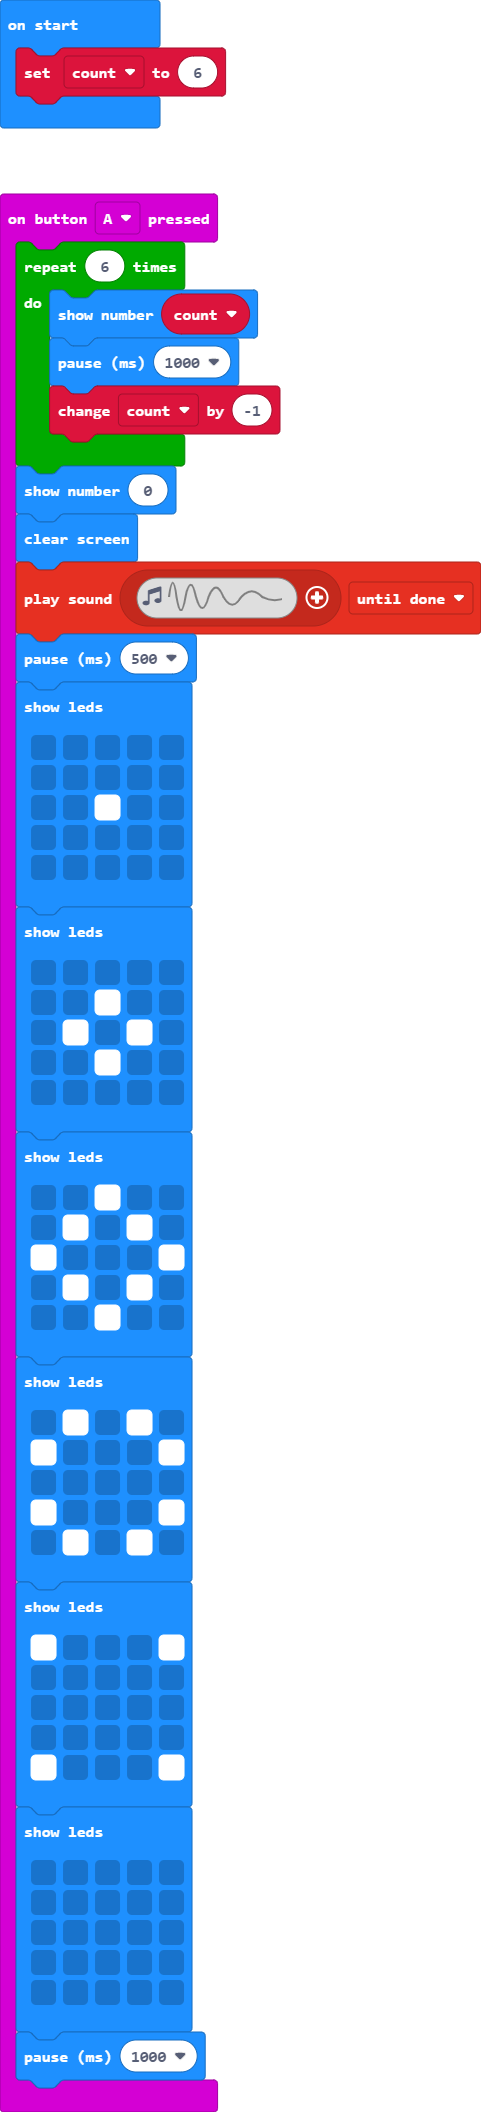
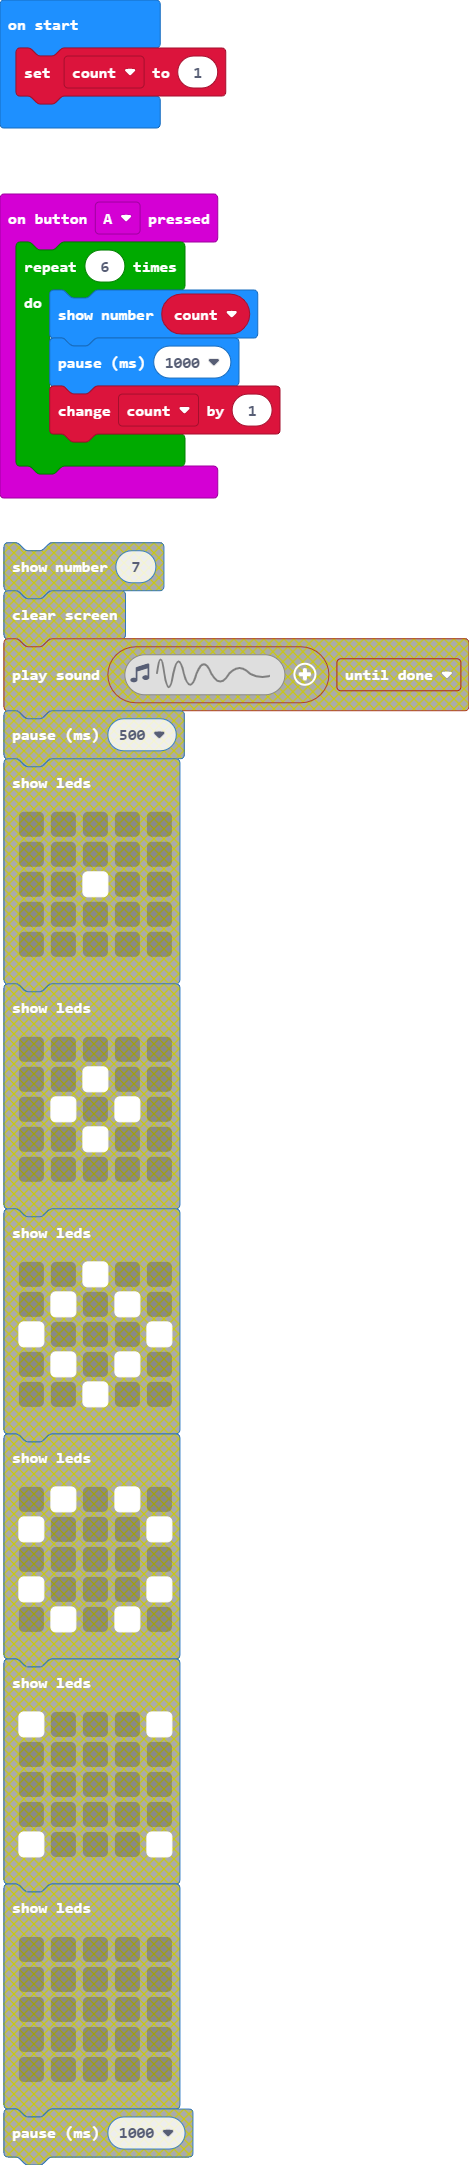
Update main.blocks, main.ts, main.py

diff --git a/main.ts b/main.ts
@@ -2,55 +2,8 @@ input.onButtonPressed(Button.A, function () {
     for (let index = 0; index < 6; index++) {
         basic.showNumber(count)
         basic.pause(1000)
-        count += -1
+        count += 1
     }
-    basic.showNumber(0)
-    basic.clearScreen()
-    music.playSoundEffect(music.createSoundEffect(WaveShape.Sine, 4500, 0, 255, 0, 3500, SoundExpressionEffect.None, InterpolationCurve.Linear), SoundExpressionPlayMode.UntilDone)
-    basic.pause(500)
-    basic.showLeds(`
-        . . . . .
-        . . . . .
-        . . # . .
-        . . . . .
-        . . . . .
-        `)
-    basic.showLeds(`
-        . . . . .
-        . . # . .
-        . # . # .
-        . . # . .
-        . . . . .
-        `)
-    basic.showLeds(`
-        . . # . .
-        . # . # .
-        # . . . #
-        . # . # .
-        . . # . .
-        `)
-    basic.showLeds(`
-        . # . # .
-        # . . . #
-        . . . . .
-        # . . . #
-        . # . # .
-        `)
-    basic.showLeds(`
-        # . . . #
-        . . . . .
-        . . . . .
-        . . . . .
-        # . . . #
-        `)
-    basic.showLeds(`
-        . . . . .
-        . . . . .
-        . . . . .
-        . . . . .
-        . . . . .
-        `)
-    basic.pause(1000)
 })
 let count = 0
-count = 6
+count = 1

diff --git a/main.py b/main.py
@@ -3,12 +3,63 @@ def on_button_pressed_a():
     for index in range(6):
         basic.show_number(count)
         basic.pause(1000)
-        count += 1
+        count += -1
+    basic.show_number(0)
+    basic.clear_screen()
+    music.play_sound_effect(music.create_sound_effect(WaveShape.SINE,
+            4500,
+            0,
+            255,
+            0,
+            3500,
+            SoundExpressionEffect.NONE,
+            InterpolationCurve.LINEAR),
+        SoundExpressionPlayMode.UNTIL_DONE)
+    basic.pause(500)
+    basic.show_leds("""
+        . . . . .
+                . . . . .
+                . . # . .
+                . . . . .
+                . . . . .
+    """)
+    basic.show_leds("""
+        . . . . .
+                . . # . .
+                . # . # .
+                . . # . .
+                . . . . .
+    """)
+    basic.show_leds("""
+        . . # . .
+                . # . # .
+                # . . . #
+                . # . # .
+                . . # . .
+    """)
+    basic.show_leds("""
+        . # . # .
+                # . . . #
+                . . . . .
+                # . . . #
+                . # . # .
+    """)
+    basic.show_leds("""
+        # . . . #
+                . . . . .
+                . . . . .
+                . . . . .
+                # . . . #
+    """)
+    basic.show_leds("""
+        . . . . .
+                . . . . .
+                . . . . .
+                . . . . .
+                . . . . .
+    """)
+    basic.pause(1000)
 input.on_button_pressed(Button.A, on_button_pressed_a)
 
 count = 0
-count = 1
-
-def on_forever():
-    pass
-basic.forever(on_forever)
+count = 6
